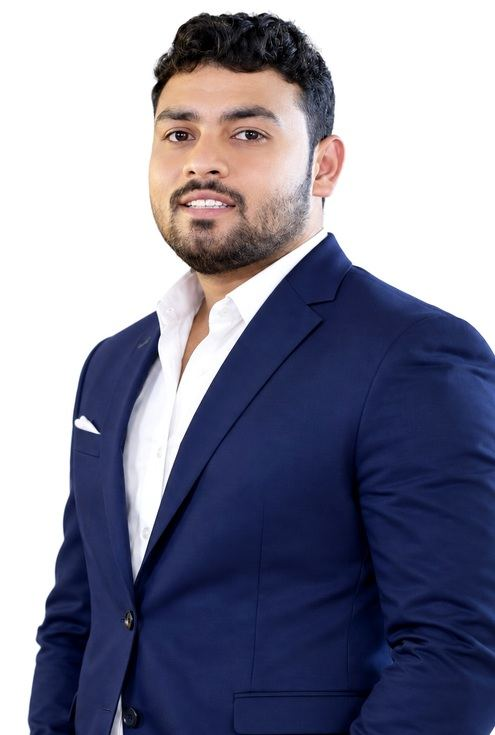
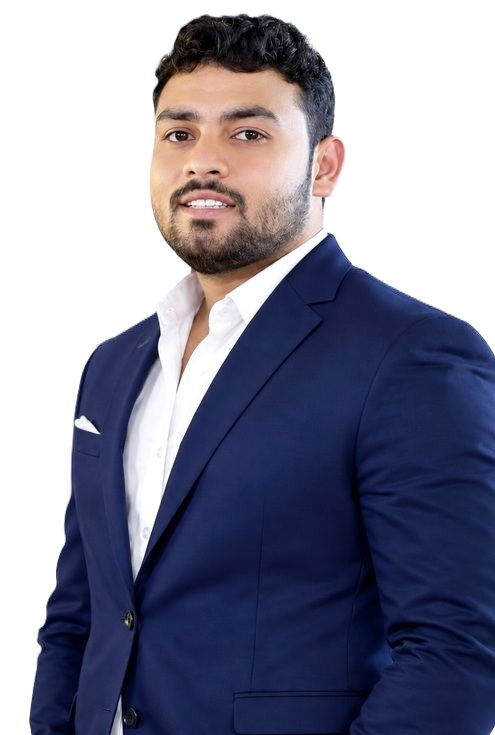
Font size fixed + Form clear after submit

diff --git a/js/main.js b/js/main.js
@@ -50,12 +50,18 @@ function initImageErrorHandlers() {
 }
 
 /* Lightbox Pop-up Modal */
+let lightboxHistoryEntry = false;
+
 function openLightbox(src, captionText) {
   const modal = document.getElementById('lightboxModal');
   const modalImg = document.getElementById('lightboxImg');
   const caption = document.getElementById('lightboxCaption');
 
   if (modal && modalImg && caption) {
+    if (!modal.classList.contains('active')) {
+      window.history.pushState({ lightboxOpen: true }, '', window.location.href);
+      lightboxHistoryEntry = true;
+    }
     modalImg.src = src;
     caption.textContent = captionText;
     modal.classList.add('active');
@@ -63,15 +69,27 @@ function openLightbox(src, captionText) {
   }
 }
 
-function closeLightbox() {
+function closeLightbox(fromHistory = false) {
   const modal = document.getElementById('lightboxModal');
   const modalImg = document.getElementById('lightboxImg');
   if (modal) {
+    if (!fromHistory && lightboxHistoryEntry) {
+      window.history.back();
+      return;
+    }
     modal.classList.remove('active');
     modal.setAttribute('aria-hidden', 'true');
     if (modalImg) modalImg.src = '';
+    lightboxHistoryEntry = false;
   }
 }
+
+window.addEventListener('popstate', () => {
+  const modal = document.getElementById('lightboxModal');
+  if (modal && modal.classList.contains('active')) {
+    closeLightbox(true);
+  }
+});
 
 document.addEventListener('keydown', (e) => {
   if (e.key === 'Escape') {
@@ -113,8 +131,8 @@ async function handleFormSubmit(e) {
     // If running offline or without Formspree account yet, still provide friendly feedback
     status.style.color = '#16a34a';
     status.textContent = 'Thank you! Your inquiry was recorded. Please call +91 9270057005 / 9766700005 for immediate equipment dispatch.';
-    form.reset();
   } finally {
+    form.reset();
     submitBtn.disabled = false;
     submitBtn.textContent = 'Send Inquiry';
   }

diff --git a/css/style.css b/css/style.css
@@ -28,7 +28,7 @@
 html {
   scroll-behavior: smooth;
   font-family: 'Inter', sans-serif;
-  font-size: 16.5px;
+  font-size: 15px;
   color: var(--text-dark);
   background-color: var(--bg-white);
   line-height: 1.7;
@@ -238,7 +238,7 @@ img {
 }
 
 .main-heading {
-  font-size: 2.35rem;
+  font-size: 2.25rem;
   font-weight: 800;
   color: var(--primary-navy);
 }
@@ -291,7 +291,7 @@ img {
 }
 
 .hero-title {
-  font-size: 3.1rem;
+  font-size: 3rem;
   font-weight: 900;
   line-height: 1.22;
   margin-bottom: 20px;

diff --git a/index.html b/index.html
@@ -202,7 +202,7 @@
               <div class="popout-backplate"></div>
               <div class="popout-img-box">
                 <img
-                  src="images/proprietor.jpg"
+                  src="images/proprietor_2.png"
                   alt="Satish Tukaram Tamhane - Proprietor"
                   class="proprietor-popout-img"
                 />
